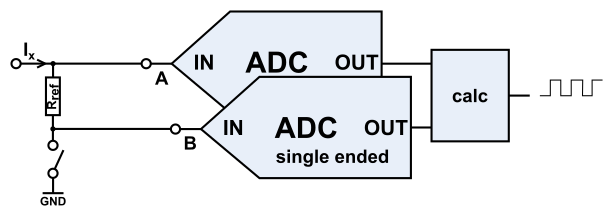
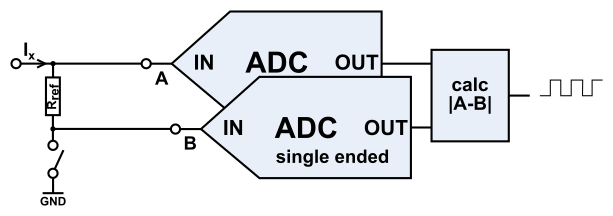
updated documentation

Changed region(s): [[0.7129, 0.3611, 0.8059, 0.5278]]

diff --git a/docs/source/Plugin/P188.rst b/docs/source/Plugin/P188.rst
@@ -26,19 +26,22 @@ Used libraries: |P188_usedlibraries|
 Introduction
 ------------
 
-The `TLA2528 <https://www.ti.com/product/de-de/TLA2528>`__ is an eight channel analog to digital converter chip with 12 bit resolution and I2C interface.
+The `TLA2528 <https://www.ti.com/product/de-de/TLA2528>`__ is an eight-channel analog to digital converter chip with 12-bit resolution and I2C interface.
 
 The plugin supports up to 4 output channels, where each is configurable to be
 
-singled ended measurement (voltage measured to GND)
+* **singled ended measurement**
+    single voltage measured to GND
 
 .. image:: P188_SingleEnded.png
 
-difference measurement (voltage difference between two inputs - each measured to GND)
+* **difference measurement**
+    voltage difference between two inputs - two consecutive inputs measured to GND
 
-.. image:: P188_Difference.png
+.. image:: P188_Difference.png 
 
-resistor measurement (voltage drop over a reference resistor - two inputs measured to GND)  
+* **resistor measurement**
+    voltage drop over a reference resistor - two consecutive inputs measured to GND
 
 .. image:: P188_Resistor.png
 
@@ -48,73 +51,71 @@ Configuration
 .. image:: P188_Config_Initial.png
   :alt: Device configuration
 
-* **Name**: Required by ESPEasy, must be unique among the list of available devices/tasks.
+* **Name**: 
+    Required by ESPEasy, must be unique among the list of available devices/tasks.
 
-* **Enabled**: The device can be disabled or enabled. When not enabled, no output data is generated.
+* **Enabled**: 
+    The device can be disabled or enabled. When not enabled, no output data is generated.
 
 I\ :sup:`2`\C options
-^^^^^^^^^^^
+^^^^^^^^^^^^^^^^^^^^^
 
 The available I\ :sup:`2`\C settings here depend on the build used.
 The I\ :sup:`2`\C address for the device is determined by connecting external resistors to the ADDR pin. 
-The voltage level on the ADDR pin is measured at power-up time and the adress can be in the range of 0x10 to 0x17.
-The specific adress for your hardware can be found in the related documentation, the schematic or by using the ``i2cscanner`` command.
+The voltage level on the ADDR pin is measured at power-up time and the address can be in the range of 0x10 to 0x17.
+The specific address for your hardware can be found in the related documentation, the schematic or by using the ``i2cscanner`` command.
 
 For details see the device datasheet (chapter 7.3.5) and the :ref:`i2c-bus` page.
 
 Device Settings
 ^^^^^^^^^^^^^^^
 
-Depending on the selected 'Number Output values', up to four sections are used to configure the output values (press 'Submit' after changing) :
+* **ADC reference voltage**:
+    The TLA2528 uses the analog supply voltage of the ADC as reference (float value, 2.35V to 5.5V)
 
-Output Sinus
-~~~~~~~~~~~~
+* **Resistor measurement clipping**: 
+    Clipping value, which is returned when the measured resistance exceeds the maximum value (float value, 0.0 to 1000000000 Ohm) - only available when compiled with P188_FEATURE_RESISTOR_MEASUREMENT defined.
 
-.. image:: P188_Config_Sinus.png
-  :alt: Output sinus configuration
+Depending on the selected 'Number Output values', up to four sections are used to configure the output values (press 'Submit' after changing):
 
-* **Amplitude**: Amplitude of the signal (integer value -65537 to +65537)
-* **Offset**: Offset from 0-Line (integer value -65537 to +65537)
-* **Period**: period time in seconds (integer value 60 - 3600)
-* **Phase**: phase offset in degrees (integer value 0 - 359)
+Output [1-4] Settings
+^^^^^^^^^^^^^^^^^^^^^
 
-.. image:: P188_Output_Sinus2.png
-  :alt: Output sinus view
+* **Reference Resistor Value**:
+    The value of the reference resistor used for the resistor measurement (integer value, 100 to 470000 Ohm) - only available when compiled with P188_FEATURE_RESISTOR_MEASUREMENT defined.
 
-- for floating value output, use formula to divide output levels (e.g. floating value output with 2 decimals use the formula '%value%/100')
+* **Parallel Resistor Value**:
+    The value of the parallel resistor used for the resistor measurement (integer value, 0 to 470000 Ohm) - only available when compiled with P188_FEATURE_RESISTOR_MEASUREMENT defined. Set Parallel Resistor Value to 0 if no parallel resistor is used.
 
-Output Trapezoid
-~~~~~~~~~~~~~~~~
+* **Output Raw ADC Value**:
+    When checked, the raw ADC value is output instead of the calculated value.
 
-.. image:: P188_Config_Trapezoid.png
-  :alt: Output trapezoid configuration
-
-* **On-Level**: output level during On-Time period (integer value -65537 to +65537)
-* **Off-Level**: output level during Off-Time period (integer value -65537 to +65537)
-* **Period**: period time in seconds (must be greater than On-Time + Rise-Time + Fall-Time)
-* **On-Time**: duration of On-Time period in seconds
-* **Rise-Time**: duration of linear slope from Off-Level to On-Level
-* **Fall-Time**: duration of linear slope from On-Level to Off-Level
-
-.. image:: P188_Output_Trapezoid2.png
-  :alt: Output trapezoid view
+* **Two Point Calibration**
+    The measured samples taken by the ADC often has to be adjusted in order to compensate for parts tolerances of the input circuit or to be mapped on to a specific range.
+    
+    For example, measuring the current going through a resistor, one normally needs to apply a formula to transform the measured voltage difference to a current value. 
+    The two point calibration allows to map the measured difference values to a known output range, by applying a linear transformation.
   
-- for inverted output, swap On-Level value with Off-Level value.
-- for floating value output, use formula to divide output levels (e.g. floating value output with 2 decimals use the formula '%value%/100')
+    .. image:: P188_Current.png
 
-Output Random
-~~~~~~~~~~~~~
+    In single ended mode, the raw ADC values are mapped to the desired output values, whereas in difference and resistance mode, the calculations are performed using the raw ADC values and the two point calibration is performed afterwards.
 
-.. image:: P188_Config_Random.png
-  :alt: Output random configuration
+    To find the correct calibration values, one must perform following measurements without applying the calibration:
 
-* **Max-Level**: maximum output level (integer value -65537 to +65537)
-* **Min-Level**: minimum output level (integer value -65537 to +65537)
+    - In single ended mode, one must measure 2 known voltages and record their corresponding raw ADC values.
+    - In difference and resistance mode, one must apply 2 known input parameters and record their corresponding measured values.
 
-.. image:: P188_Output_Random2.png
-  :alt: Output random view
 
-- for floating value output, use formula to divide output levels (e.g. floating value output with 2 decimals use the formula '%value%/100')
+    With these measurements results, the calibration values can be entered and the two point calibration can be enabled.
+
+Output Configuration
+^^^^^^^^^^^^^^^^^^^^
+
+* **Number Output Values**: 
+    The number of output values to be generated (Single, Dual, Triple or Quad). Depending on the selected number of output values, the corresponding number of output sections will be available for configuration.
+
+* **Value x**: 
+    Select the ADC input channels (0 to 7) and mode to be used for each of the output values. The selection can be configured in detail in the corresponding output section as described above.
 
 Change log
 ----------
@@ -124,8 +125,4 @@ Change log
 
   |added|
   Initial release version.
-
-
-
-
 
